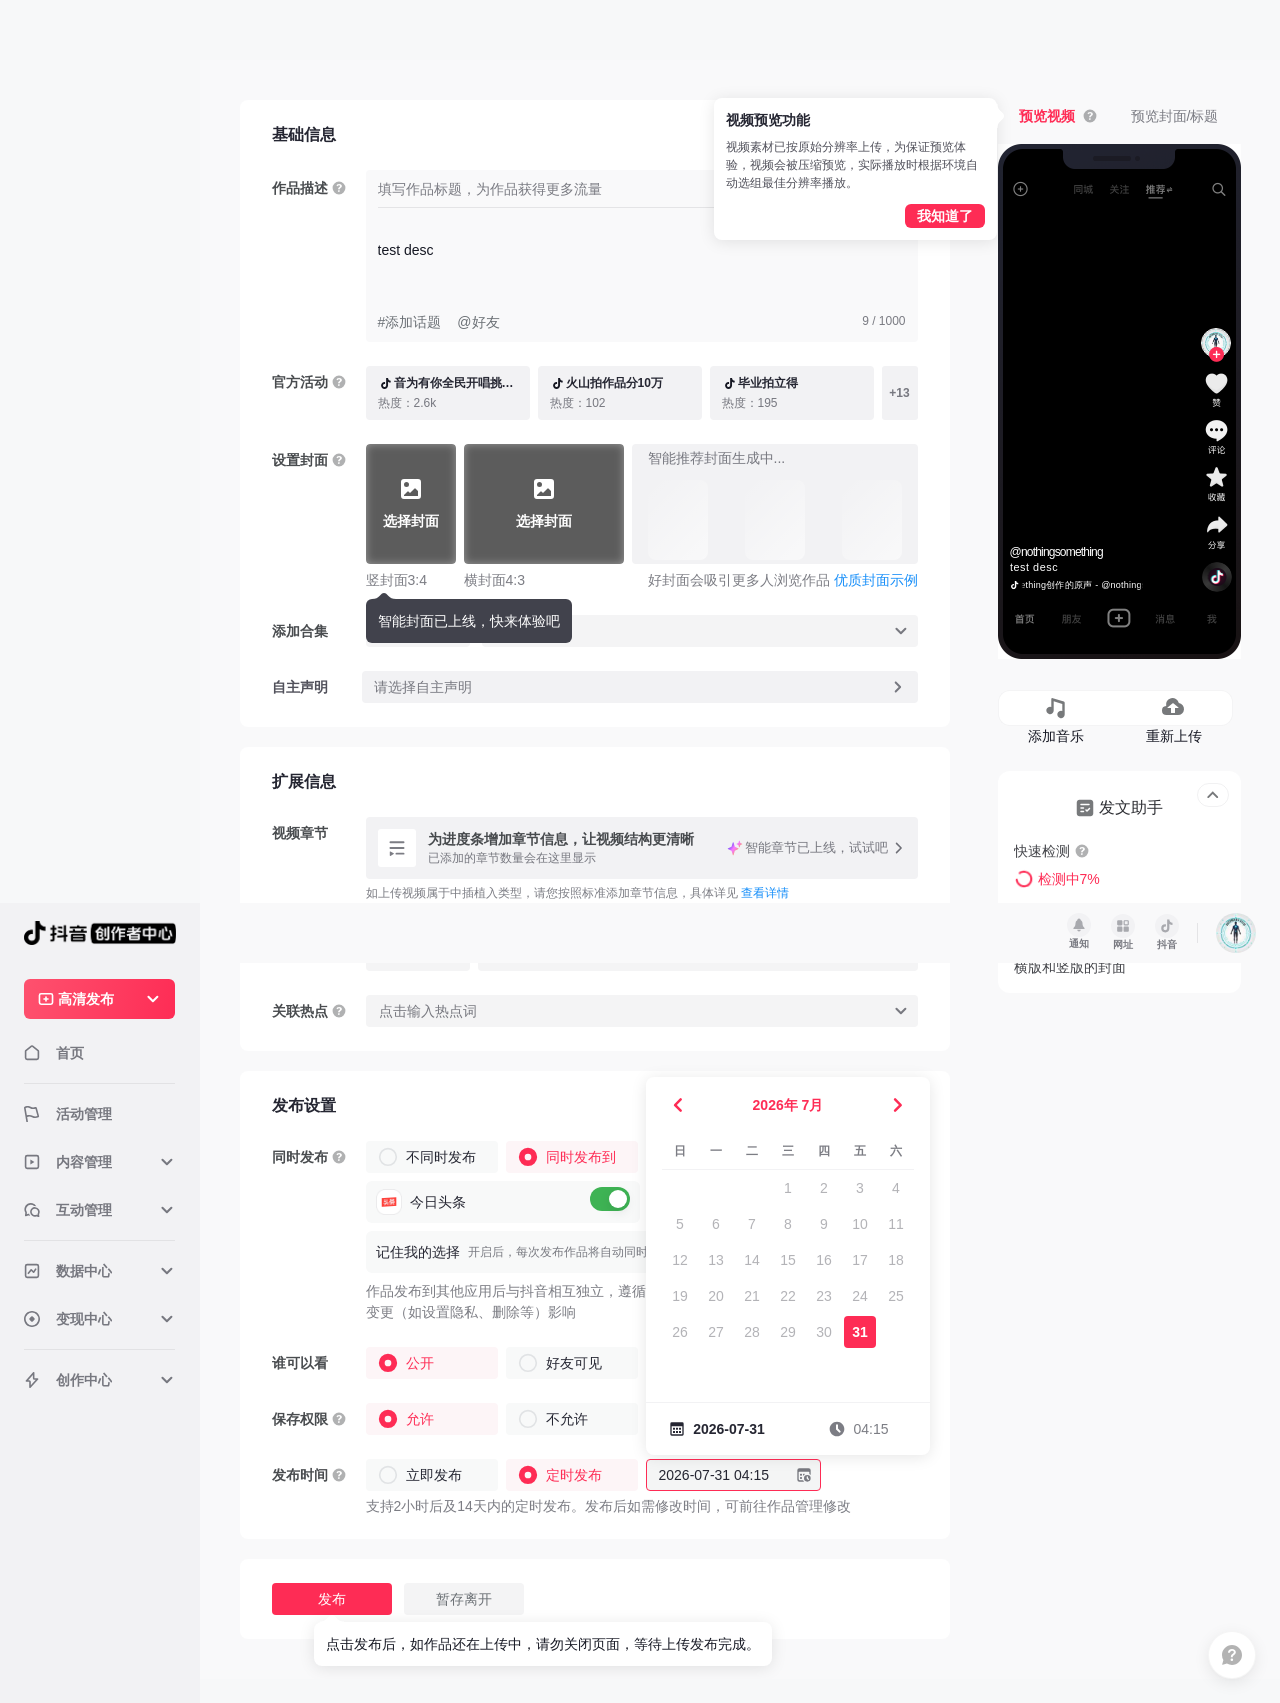
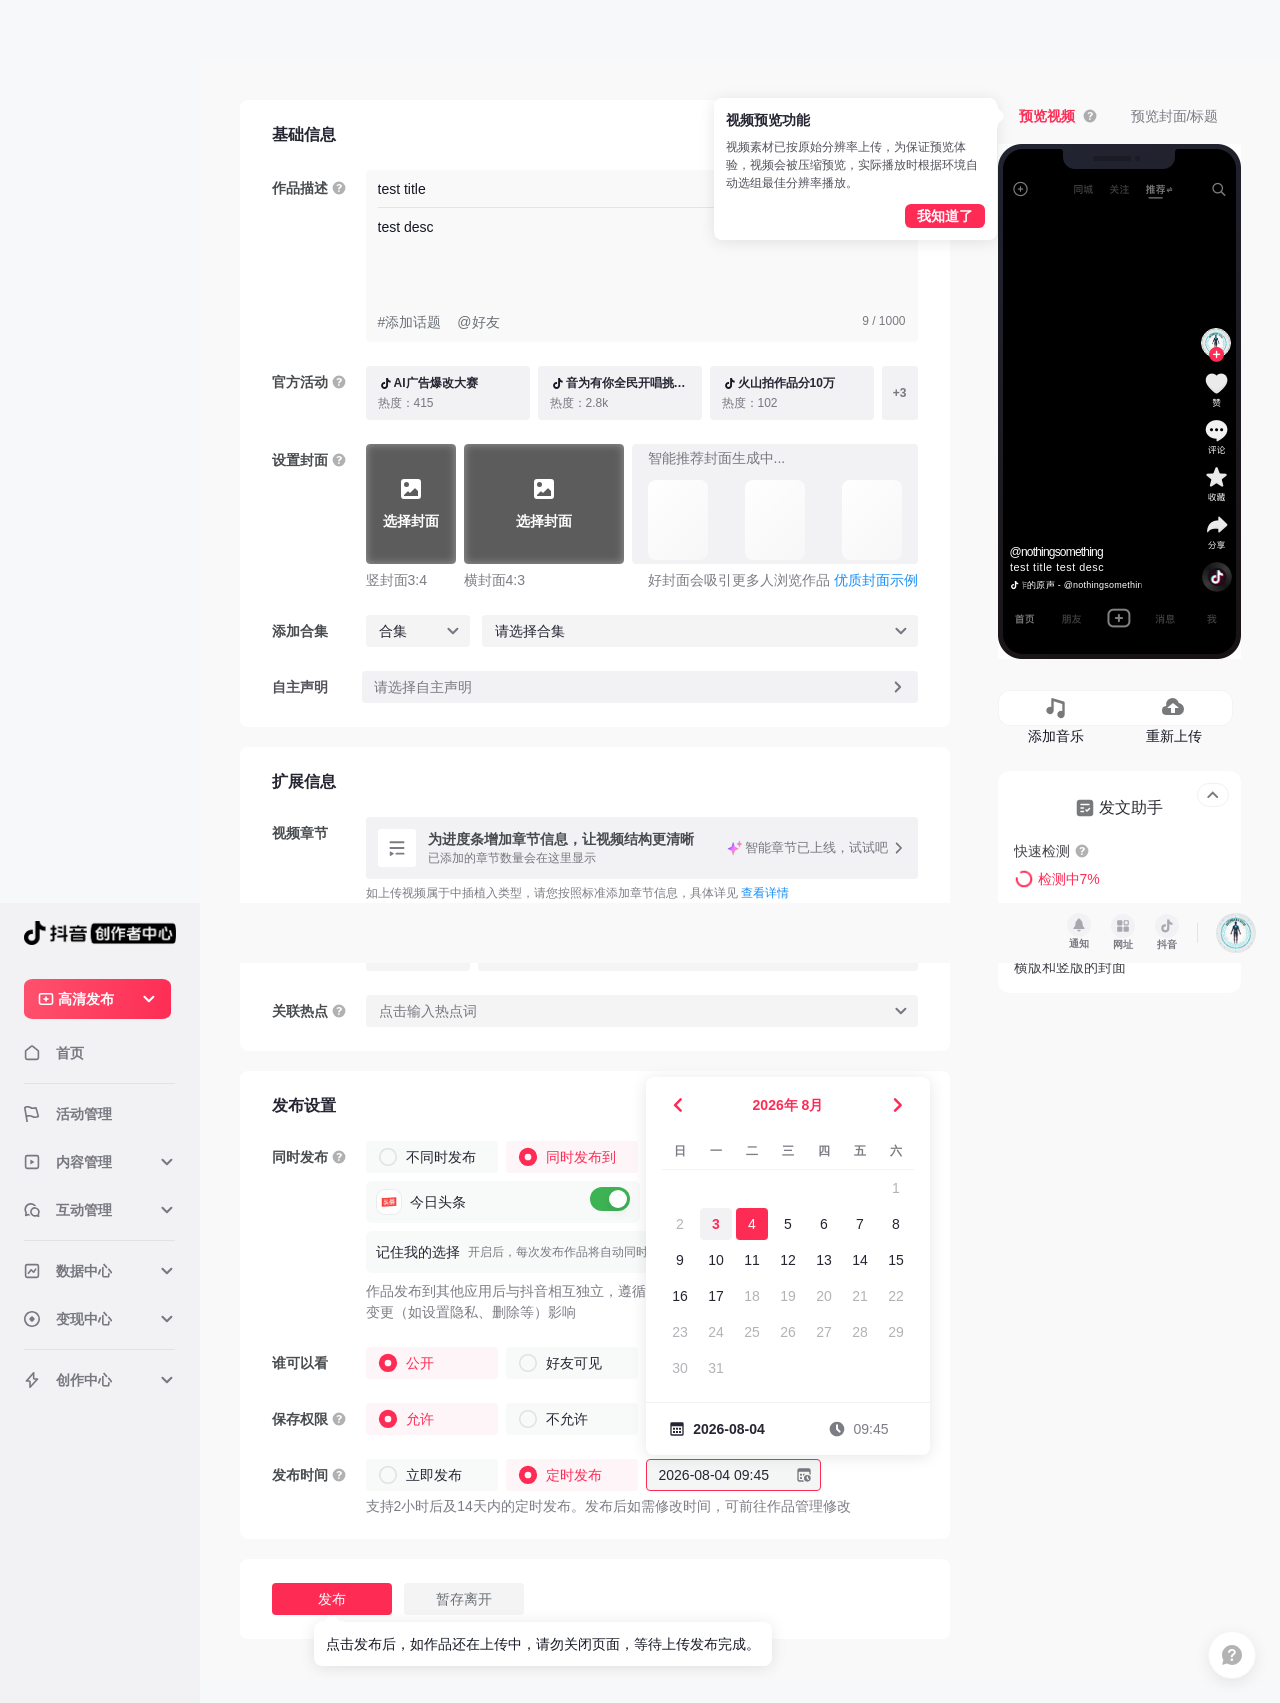
fix douyin empty title/content issue

diff --git a/backend/app/services/social.py b/backend/app/services/social.py
@@ -676,51 +676,52 @@ class BaseSocialPlatform:
     async def _enable_platform_schedule(self, page: Page, scheduled_for: Optional[datetime]) -> None:
         if not scheduled_for:
             return
-
+        
         local_time = scheduled_for.astimezone(timezone(timedelta(hours=8)))
-        date_value = local_time.strftime("%Y-%m-%d")
-        time_value = local_time.strftime("%H:%M")
         datetime_value = local_time.strftime("%Y-%m-%d %H:%M")
-
-        logger.info(f"Enabling platform scheduled publish for {self.platform_name}: {datetime_value}")
-        clicked = await self._click_first_visible(page, [
+        
+        logger.info(f"Enabling Douyin scheduled publish: {datetime_value}")
+        
+        # Click the schedule toggle/button first
+        schedule_clicked = await self._click_first_visible(page, [
             'label:has-text("定时发布")',
             'label:has-text("定时")',
             'button:has-text("定时发布")',
             'span:has-text("定时发布")',
-            'div:has-text("定时发布")',
             'text="定时发布"',
+            '.date-picker-ioPchj'  # Direct selector for the date picker container
         ], timeout_ms=8000)
-        if not clicked:
-            raise Exception(f"Could not find 定时发布 option on {self.platform_name} publish page.")
-
+        
+        if not schedule_clicked:
+            logger.warning("Could not find schedule toggle, trying direct picker click")
+            # Try clicking directly on the date picker container
+            try:
+                picker = page.locator('.date-picker-ioPchj').first
+                if await picker.count() > 0:
+                    await picker.click(timeout=3000)
+            except:
+                raise Exception("Could not find Douyin schedule time picker")
+        
         await page.wait_for_timeout(1000)
         
-        # Try combined first
-        if await self._fill_date_time_input(page, [
-            'input[placeholder*="发布时间"]',
-            'input[placeholder*="日期和时间"]',
-            'input[placeholder*="发布"]',
-            '[class*="datetime"] input',
-        ], datetime_value, timeout_ms=5000):
-            return
-
-        # Fallback to separate
-        date_filled = await self._fill_date_time_input(page, [
-            'input[placeholder*="日期"]',
-            'input[placeholder*="选择日期"]',
-            'input[placeholder*="年月日"]',
-            'input[type="date"]',
-        ], date_value, timeout_ms=4000)
-        time_filled = await self._fill_date_time_input(page, [
-            'input[placeholder*="时间"]',
-            'input[placeholder*="选择时间"]',
-            'input[placeholder*="时分"]',
-            'input[type="time"]',
-        ], time_value, timeout_ms=4000)
-
-        if not (date_filled and time_filled):
-            raise Exception(f"Could not set scheduled publish time on {self.platform_name} page.")
+        # Fill the datetime input directly
+        try:
+            # Wait for the input to be visible
+            time_input = page.locator('.semi-datepicker-input .semi-input').first
+            await time_input.wait_for(state="visible", timeout=10000)
+            
+            # Clear existing value and set new one
+            await time_input.click(timeout=3000)
+            await time_input.fill(datetime_value, timeout=5000)
+            
+            # Press Enter to confirm
+            await page.keyboard.press("Enter")
+            await page.wait_for_timeout(1000)
+            
+            logger.info(f"Douyin schedule time set to: {datetime_value}")
+        except Exception as e:
+            logger.error(f"Failed to set Douyin schedule time: {e}")
+            raise
 
     async def _enable_xhs_schedule(self, page: Page, scheduled_for: Optional[datetime]) -> None:
         if not scheduled_for:
@@ -883,90 +884,49 @@ class DouyinPublisher(BaseSocialPlatform):
             await page.wait_for_timeout(2000)
 
     async def _fill_douyin_description_fields(self, page: Page, title: str, description: str) -> None:
-        """Fill Douyin's 作品描述 block: first field is 标题, second field is 简介."""
-        script = """
-            ({ title, description }) => {
-                const visible = el => {
-                    if (!el) return false;
-                    const style = window.getComputedStyle(el);
-                    const rect = el.getBoundingClientRect();
-                    return style.display !== 'none' && style.visibility !== 'hidden' && rect.width > 0 && rect.height > 0;
-                };
-                const setValue = (el, value) => {
-                    el.scrollIntoView({ block: 'center', inline: 'nearest' });
-                    el.focus && el.focus();
-                    const tag = (el.tagName || '').toLowerCase();
-                    if (tag === 'input' || tag === 'textarea') {
-                        el.value = value;
-                    } else if (el.isContentEditable || el.getAttribute('contenteditable') === 'true') {
-                        el.textContent = value;
-                    } else {
-                        return false;
-                    }
-                    el.dispatchEvent(new InputEvent('input', { bubbles: true, inputType: 'insertText', data: value }));
-                    el.dispatchEvent(new Event('change', { bubbles: true }));
-                    return true;
-                };
-                const controls = Array.from(document.querySelectorAll('input, textarea, [contenteditable="true"]')).filter(visible);
-                const titleControls = controls.filter(el => {
-                    const placeholder = (el.getAttribute('placeholder') || el.getAttribute('data-placeholder') || '').trim();
-                    return placeholder.includes('标题');
-                });
-                const descControls = controls.filter(el => {
-                    const placeholder = (el.getAttribute('placeholder') || el.getAttribute('data-placeholder') || '').trim();
-                    return placeholder.includes('简介') || placeholder.includes('描述');
-                });
-                if (titleControls[0] && descControls[0]) {
-                    return setValue(titleControls[0], title) && setValue(descControls[0], description);
-                }
-
-                const labels = Array.from(document.querySelectorAll('body *')).filter(el => {
-                    if (!visible(el)) return false;
-                    const text = (el.innerText || el.textContent || '').trim();
-                    return text === '作品描述' || text.startsWith('作品描述');
-                });
-                for (const label of labels) {
-                    const labelRect = label.getBoundingClientRect();
-                    const nearby = controls.filter(el => {
-                        const rect = el.getBoundingClientRect();
-                        return rect.top >= labelRect.top - 30 && rect.top <= labelRect.top + 360 && rect.left >= labelRect.left - 20;
-                    }).sort((a, b) => {
-                        const ar = a.getBoundingClientRect();
-                        const br = b.getBoundingClientRect();
-                        if (Math.abs(ar.top - br.top) > 8) return ar.top - br.top;
-                        return ar.left - br.left;
-                    });
-                    if (nearby.length >= 2) {
-                        return setValue(nearby[0], title) && setValue(nearby[1], description);
-                    }
-                }
-                return false;
-            }
-        """
+        """Fill Douyin's title and 作品描述 (description) fields using precise selectors."""
         try:
-            if await page.evaluate(script, {"title": title, "description": description}):
-                logger.info("Filled Douyin 作品描述 title and intro fields.")
-                return
+            # 1. Fill title field - specific selector based on actual DOM
+            title_input = page.locator('.semi-input-wrapper input[type="text"], .semi-input-default').first
+            if await title_input.count() > 0 and await title_input.is_visible():
+                await title_input.click(timeout=5000)
+                await title_input.fill(title, timeout=5000)
+                logger.info(f"Filled Douyin title: {title[:50]}...")
+            else:
+                # Fallback: try any input with placeholder containing 标题
+                fallback_title = page.locator('input[placeholder*="标题"]').first
+                if await fallback_title.count() > 0 and await fallback_title.is_visible():
+                    await fallback_title.click(timeout=3000)
+                    await fallback_title.fill(title, timeout=3000)
+                    logger.info(f"Filled Douyin title via fallback")
+                else:
+                    logger.warning("Could not find Douyin title input field")
+            
+            # 2. Fill description/简介 field - contenteditable div
+            desc_editor = page.locator('.zone-container.editor-kit-container.editor').first
+            if await desc_editor.count() > 0 and await desc_editor.is_visible():
+                await desc_editor.click(timeout=5000)
+                # Clear any existing content
+                await page.keyboard.press("Control+A")
+                await page.keyboard.press("Delete")
+                # Type the description
+                await page.keyboard.type(description, delay=10)
+                logger.info(f"Filled Douyin description: {description[:50]}...")
+            else:
+                # Fallback: try any contenteditable with placeholder 简介
+                fallback_desc = page.locator('[contenteditable="true"][data-placeholder*="简介"]').first
+                if await fallback_desc.count() > 0 and await fallback_desc.is_visible():
+                    await fallback_desc.click(timeout=3000)
+                    await page.keyboard.press("Control+A")
+                    await page.keyboard.press("Delete")
+                    await page.keyboard.type(description, delay=10)
+                    logger.info(f"Filled Douyin description via fallback")
+                else:
+                    logger.warning("Could not find Douyin description editor")
+                    
         except Exception as e:
-            logger.warning(f"Douyin label-based field fill failed: {e}")
-
-        title_filled = await self._fill_text_entry(page, [
-            'input[placeholder*="作品作品标题"]',
-            'input[placeholder*="作品标题"]',
-            'input[placeholder*="标题"]',
-            'textarea[placeholder*="作品标题"]',
-            '[contenteditable="true"][data-placeholder*="标题"]',
-        ], title, timeout_ms=10000)
-        desc_filled = await self._fill_text_entry(page, [
-            'textarea[placeholder*="作品简介"]',
-            'textarea[placeholder*="简介"]',
-            'textarea[placeholder*="描述"]',
-            '[contenteditable="true"][data-placeholder*="简介"]',
-            '[contenteditable="true"][data-placeholder*="描述"]',
-            '[contenteditable="true"]',
-        ], description, timeout_ms=10000)
-        if not title_filled or not desc_filled:
-            raise Exception("Could not fill Douyin 作品描述 title/intro fields after upload.")
+            logger.error(f"Failed to fill Douyin title/description: {e}")
+            raise
 
     async def start_login_session(self) -> str:
         async def _wait_for_login(browser: Browser, context: BrowserContext, page: Page):
